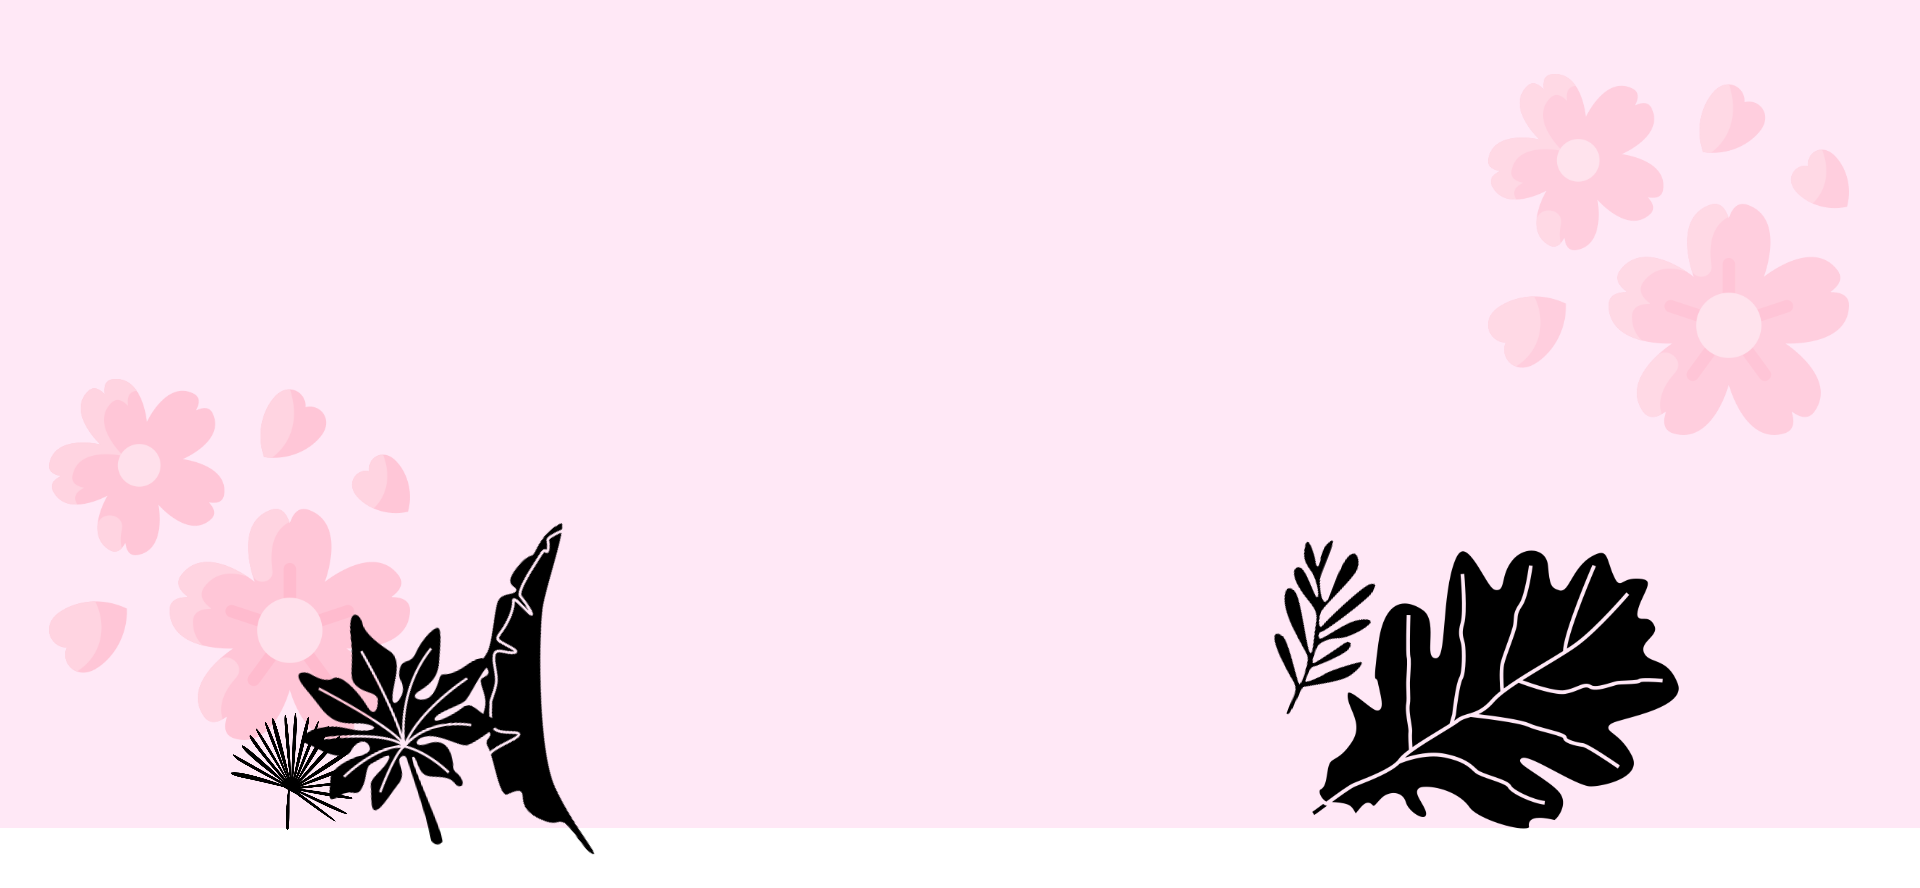
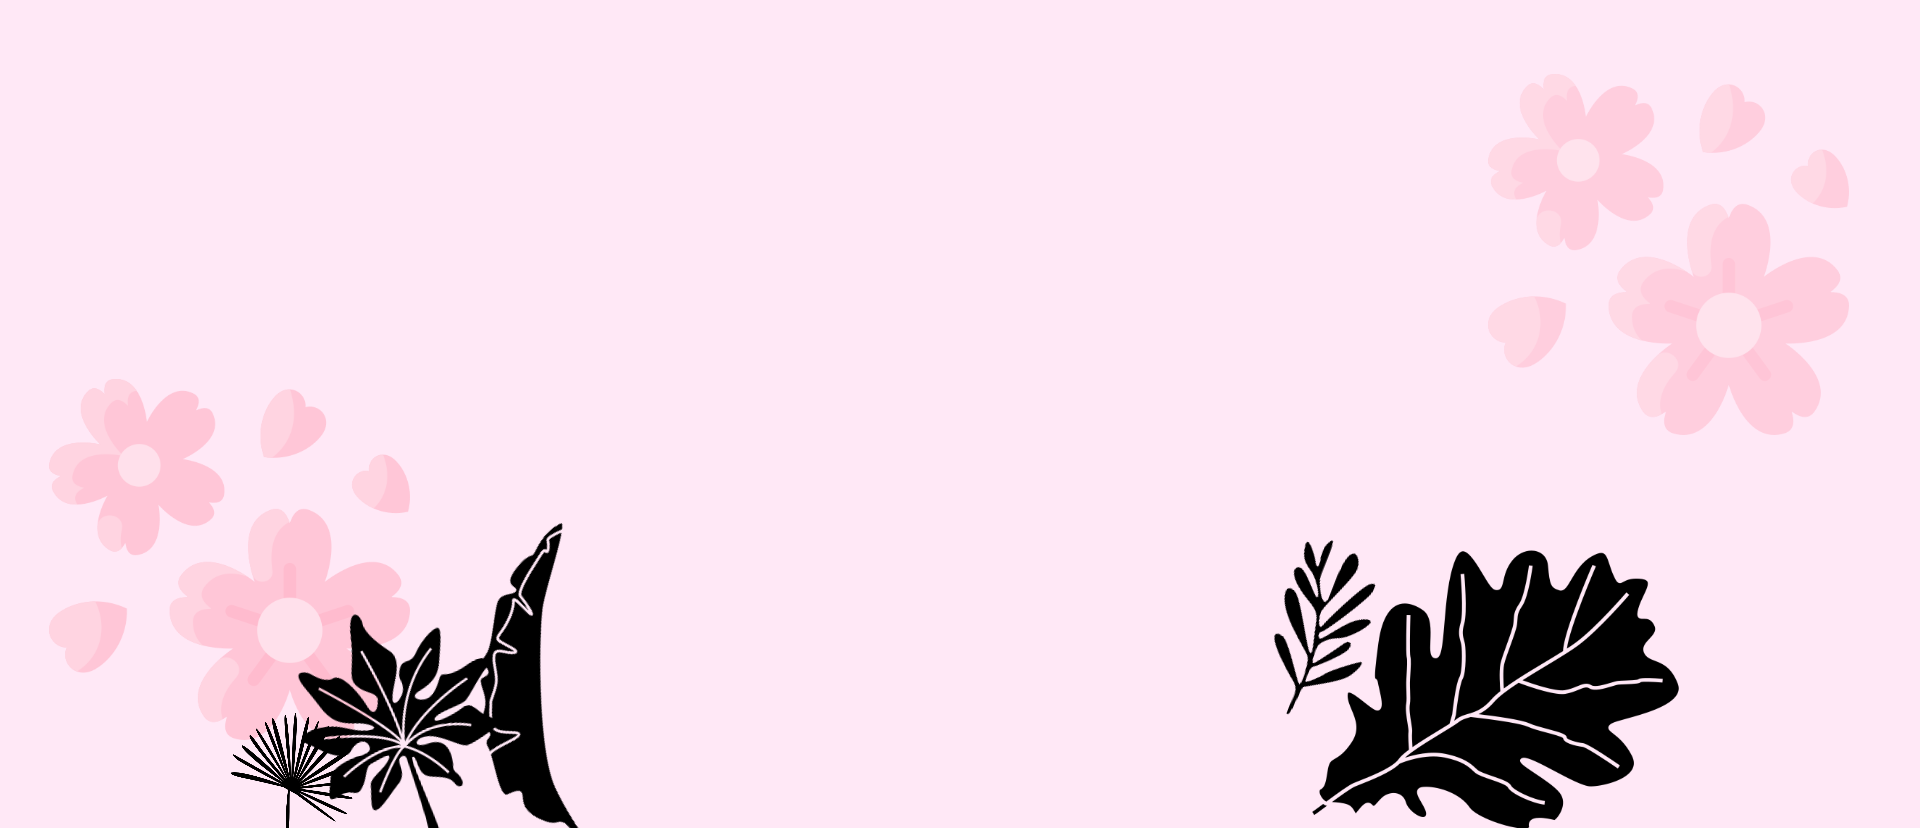
header pc arrumado

diff --git a/css/style.css b/css/style.css
@@ -1704,7 +1704,7 @@
       border-radius   : 3px;
       background-color: rgb(250, 246, 246);
       position        : relative;
-      top             : 1vw;
+      top             : 20px;
       left            : 39vw;
       transform-origin: 4px 0px;
       transition      : transform 0.7s ease;
@@ -1770,18 +1770,18 @@
 
     body header nav div:first-child  form:nth-child(2) img{
       width: 0px;
-      position: relative;
+      position: fixed;
       left: 36vw;
-      bottom: 80px;
+      top: 1vw;
     }
 
     body header nav div:first-child  form:nth-child(2) input:first-child{
       opacity: 0;
       width: 0px;
       height: 0px;
-      position: relative;
+      position: fixed;
       left: 36vw;
-      bottom: 3.5vw;
+      top: 1vw;
       z-index: 2;
     }
 
@@ -1791,9 +1791,9 @@
     }
 
     body header nav div:first-child form:nth-child(2) input:nth-child(3){
-      position: relative;
+      position: absolute;
       left: 35vw;
-      bottom: 4.5vw;
+      top: 20px;
       z-index: 3;
       border: 1px solid white;
       border-radius: 72px;
@@ -1808,17 +1808,20 @@
     }
 
     body header nav div:first-child a:nth-child(3) img:first-child{
-      width: 9.2vw;
-      position: relative;
-      bottom: 130px;
+      width: 11vw;
+      height: 201px;
+      position: absolute;
       left: 3.5vw;
+      top: -1.5%;
     }
 
     body header nav div:first-child a:first-child img:first-child{
-      width: 4.5vw;
-      position: relative;
+      width: 76px;
+      height: 76px;
+      z-index: 2;
+      position: absolute;
       left: 85vw;
-      top: 0.2vw;
+      top: 0.3vw;
     }
 
     body header div:nth-child(2) div:first-child img:first-child{
@@ -1840,9 +1843,10 @@
     }
 
     body header div:nth-child(2) div:first-child img:nth-child(3){
-      width: 45.5vw;
+      width: 873px;
+      height: 612px;
       margin-top: 105px;
-      margin-left: 27.5vw;
+      margin-left: 17.5vw;
     }
 
     body header div:nth-child(2) div:first-child img:nth-child(4){
